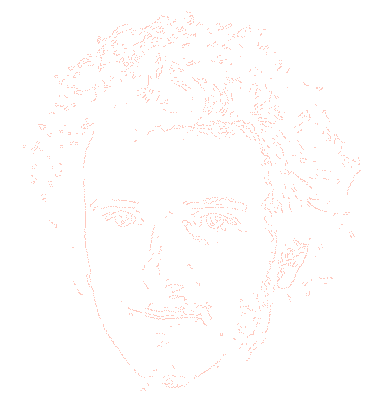
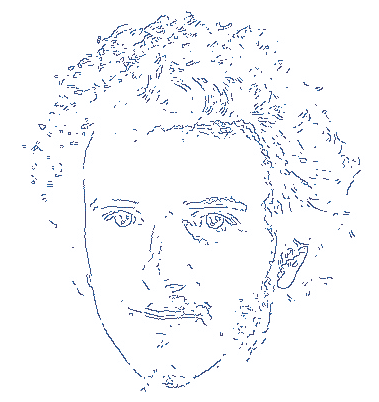
Add files via upload

diff --git a/index.html b/index.html
@@ -8,6 +8,7 @@
 	<meta name="description" content="">
 	<link rel="preconnect" href="https://fonts.gstatic.com">
 	<link href="https://fonts.googleapis.com/css2?family=IBM+Plex+Sans&display=swap" rel="stylesheet"> 
+	<link href="https://fonts.googleapis.com/css2?family=Inconsolata&display=swap" rel="stylesheet"> 
 	<link href="https://fonts.googleapis.com/css2?family=Akshar:wght@600&display=swap" rel="stylesheet">
 	<link rel="stylesheet" href="css/index.css">
 	<link rel="icon" type="image/png" href="favicon.png">
@@ -24,13 +25,15 @@
 			<h2 class="entry" onclick = "replaceMain('research')">research</h2>
 		</nav>
 		<main id="main">
-			<div style="display: flex; flex-direction: row; margin-top: 2.75rem">
-				<img src="/imgs/face.png">
-				<div style="display: grid; margin-bottom: 3.5rem; margin-top: 3.5rem; align-items: center">
-				  <h3> Occupation: PhD Candidate </h3>
-				  <h3 class="linked"> Affiliation:&nbsp; <a href="http://www.math.sfu.ca/">SFU Math</a> </h3>
-				  <h3> Contact: [first]_[last]@sfu.ca </h3>
-				  <h3 class="linked">Documents:&nbsp; <a href="/docs/CV.pdf"> CV</a>.</h3>
+			<div class="id"></div>
+				<div style="display: flex; flex-direction: row; margin-top: 2.75rem">
+					<img src="/imgs/face.png">
+					<div style="display: grid; margin-bottom: 3.5rem; margin-top: 3.5rem; align-items: center">
+				  	<h3> Occupation: PhD Candidate </h3>
+				  	<h3 class="linked"> Affiliation:&nbsp; <a href="http://www.math.sfu.ca/">SFU Math</a> </h3>
+				  	<h3> Contact: [first]_[last]@sfu.ca </h3>
+				  	<h3 class="linked">Documents:&nbsp; <a href="/docs/CV.pdf"> CV</a>.</h3>
+					</div>
 				</div>
 			</div>
 		</main>

diff --git a/js/index.js b/js/index.js
@@ -48,15 +48,17 @@ function replaceMain(tab) {
     el.removeChild(el.firstChild);
   }
   if (tab == 'home') {
-    el.innerHTML = `<div style="display: flex; flex-direction: row; margin-top: 2.75rem">
-      <img src="/imgs/face.png">
-      <div style="display: grid; margin-bottom: 3.5rem; margin-top: 3.5rem; align-items: center">
-        <h3> Occupation: PhD Candidate </h3>
-        <h3 class="linked"> Affiliation:&nbsp; <a href="http://www.math.sfu.ca/">SFU Math</a> </h3>
-				<h3> Contact: [first]_[last]@sfu.ca </h3>
-				<h3 class="linked">Documents:&nbsp; <a href="/docs/CV.pdf"> CV</a>.</h3>
-      </div>
-    </div>`
+    el.innerHTML = `<div class="id"></div>
+        <div style="display: flex; flex-direction: row; margin-top: 2.75rem">
+          <img src="/imgs/face.png">
+          <div style="display: grid; margin-bottom: 3.5rem; margin-top: 3.5rem; align-items: center">
+            <h3> Occupation: PhD Candidate </h3>
+            <h3 class="linked"> Affiliation:&nbsp; <a href="http://www.math.sfu.ca/">SFU Math</a> </h3>
+            <h3> Contact: [first]_[last]@sfu.ca </h3>
+            <h3 class="linked">Documents:&nbsp; <a href="/docs/CV.pdf"> CV</a>.</h3>
+          </div>
+        </div>
+      </div>`
   }
   else if (tab == 'research') {
     el.innerHTML = `<h3>

diff --git a/css/index.css b/css/index.css
@@ -1,8 +1,8 @@
 :root {
-    --black: #09090B;
-    --pink: #daa49a;
-    --blue: #bdd4e7;
-    --neutral: #71816D;
+    --black: #E1B07E;
+    --pink: #2366A9;
+    --blue: #246EB9;
+    --neutral: #000000;
 }
 
 html {
@@ -145,6 +145,16 @@ img {
     display: inline-flex; 
     flex-direction: row; 
     flex-wrap: wrap;
+}
+
+.id {
+    border-style: solid;
+    border-radius: 15px;
+    border-width: 0.2rem;
+    border-color: var(--pink);
+    padding: 0.75rem 0 0 0;
+    width: 9.7rem;
+    font-family: 'Inconsolata', monospace;
 }
 
 .entry svg,
